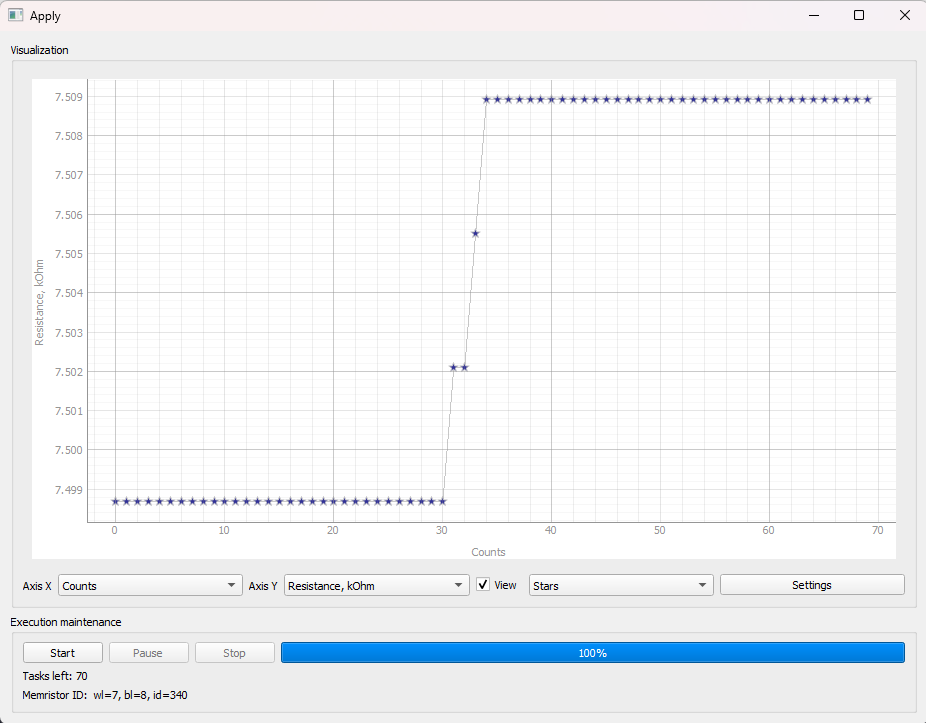
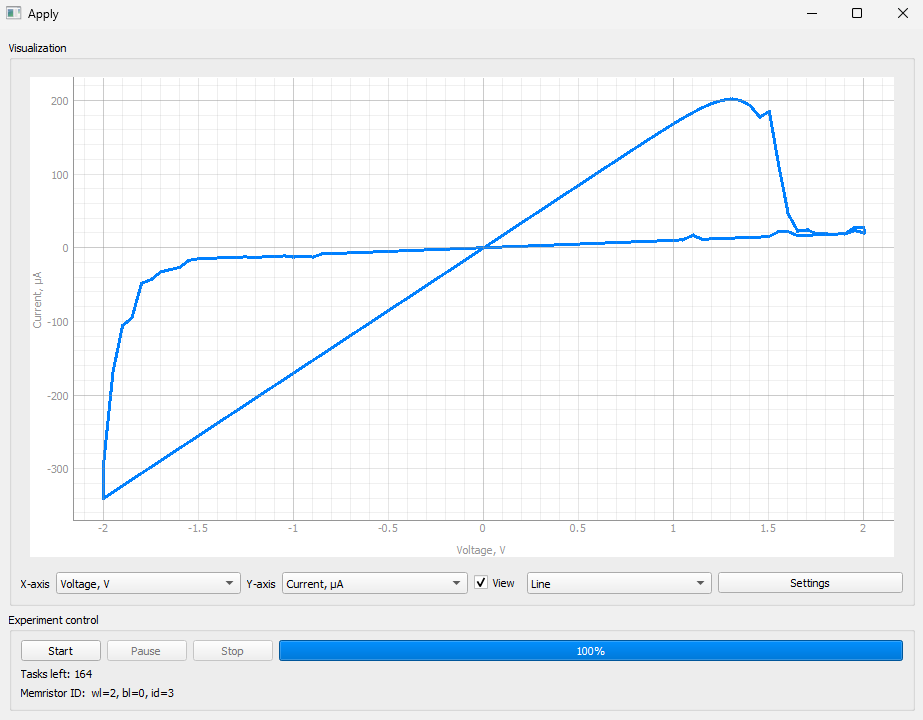
Docs: Manual revised

diff --git a/docs/README.md b/docs/README.md
@@ -35,7 +35,7 @@ After connecting, a new crossbar is created in memory, or an existing one is loa
 - **Update** the configutation from settings.ini.
 - Selection of **ADC bit depth**: 10 bits (Arduino ADC) or 14 bits (external ADC, oversampling).
 - Adjustment of **calibration coefficient**.
-- Adjustment of the software **current limiter (CC)** (works by predicting the current of the next pulse, based on last measured resistance).
+- Adjustment of the software **current compliance (CC)** (works by predicting the current of the next pulse, based on last measured resistance).
 
 ## Main window
 
@@ -50,7 +50,7 @@ Main window has a table which displays resistances of the memory cells. At the t
 - **Snapshot** shows a color map of the resistances.
 - [**Settings**](#settings).
 
-### Working with individual cells
+## Working with individual cells
 
 In addition to the general functionality, it is possible to work with each cell separately. To open the cell menu, double-click on it with the left mouse button.
 
@@ -62,20 +62,23 @@ The window that opens displays the basic information about the cell and contains
 - [**History**](#history-window) &mdash; get the journal of all experiments conducted on the cell.
 - [**New experiment**](#configuring-your-experiment) &mdash; create new experiment plan.
 
-#### History window
+### History window
 
 ![Cell History Window](assets/history.png)
 
 The window displays all experiments performed on the cell. By clicking on the experiment you can get it's brief overview (**Brief** tab on the right side of the window) or ***export measurement data*** to csv (**Full** tab on the right side of the window, then press **Export to csv**). The data is exported separately for each part of the experiment (ticket).
-In lower left part of the window, you can **load the experiment** to [repeat](#signal-editing-window) it or export the experiment plan as a single ticket.
+You can **Export** the experiment plan as a single ticket via **Export** button in the bottom left part of the window.
+You can **Load the experiment** to repeat it: [Experiment configuration](#configuring-your-experiment) window will open. The **Load** button is in the bottom left of the window.
 
-### Configuring your experiment
+## Configuring your experiment
 
 Experiment configuration window can be opened via [Cell info](#working-with-individual-cells) window or via [Tests](#tests) window.
 
 ![Experiment plan window](assets/new_exp.png)
 
-The window allows you to create a new experiment with a cell. It is made up of tickets &mdash; preset experiments, such as iv-curve, endurance, programming, etc. You can **add** multiple tickets from left side of the window to the experiment plan (**Add to plan** button), or you can create a new ticket (**New** button in the bottom left corner). The **Load** button on the right side of the window allows you to load a ticket that was previously applied to one of the cells. You can also directly **import** tickets from a *.json* file.
+The window allows you to create a new experiment with a cell. It is made up of tickets &mdash; preset experiments, such as iv-curve, endurance, programming, etc. You can **add** multiple tickets from left side of the window to the experiment plan (**Add to plan** button), or you can create a new ticket (**New** button in the bottom left corner). 
+The **Load** button on the right side of the window allows you to load a ticket that was previously applied to one of the cells. All parameters of that ticket will be loaded to the experiment.
+You can also directly **import** tickets from a *.json* file.
 You can enter the experiment **name** in the lower right part of the window.
 
 Preset tickets, available by default, are:
@@ -91,7 +94,7 @@ Preset tickets, available by default, are:
 By double-clicking the ticket on the right side of the window (or pressing **Edit** button), you can adjust the ticket parameters (voltage applied to the cell, number of cycles, etc.): the [Signal editing window](#signal-editing-window) opens.
 **Apply to the cell** button opens [Apply window](#applying-the-experiment) where you can start the experiment.
 
-#### Signal editing window
+### Signal editing window
 
 The signal window is opened via [Experiment plan](#configuring-your-experiment) window, it allows you to set the signal which is applied to the memristive cell.
 
@@ -107,32 +110,63 @@ For example, measuring 10 IV curves requires the following parameters:
 
 **Sending order:** Reset-Set; **Repeat**: 10 times
 
-##### Standart pulse sequence
+#### Standart pulse sequence
 
 Each measurement point consists of two parts &mdash; a voltage pulse with the adjustable amplitude for changing the resistive state of the cell, and a read pulse that always follows it. The amplitude of the reading pulse is fixed in the *settings.ini* file.
 During the experiment, the resistive state of the cell is controlled only via read pulses with constant amplitude.
 
-##### Terminate condition
+#### Terminate condition
 
 The terminate condition can be specified in the [Signal editing window](#signal-editing-window) and ***it is checked after every measurement point is acquired***. The **pass** condition turns the terminator off. For other condition values, you need to enter the resistance in the **Value** field (or **Min** and **Max** fields), and it will be compared to the acquired resistance.
 For example, the [Signal editing window figure](#signal-editing-window) shows standart terminate condition for programming resistive states via ***write-verify algorithm***: the **condition** is set to **><**. The experiment (for this ticket only) will automatically stop when the resistance of the memory cell will be from 5000 to 5500 Ohm.
 You can increase the amount of set-reset cycles to ensure that the memristive cell reaches the desired resistance range.
 You can add other tickets after the programming ticket (for example, a retention ticket) to create an autonomous experiment.
 
-### Applying the experiment
+## Applying the experiment
 
-###### Signal setup result:
+The **Apply** window can be opened from [Experiment configuration window](#configuring-your-experiment), via **Apply to the cell** button.
 
-To run the created experiment, click the Apply To Cell button to apply it to the selected cell.
-After that, the experiment window will open. It contains:
-- Graph rendering field. It is possible to change the data displayed along the axes and change the display method (points, line, asterisks). If you do not want to render the graph in real time, it is recommended that you turn off the Display setting below.
-- Experiment control panel. Buttons for starting, pausing and stopping the experiment, as well as a scale for the progress of the experiment.
-After the experiment is completed, a notification of completion will be shown, and in the event of a software [current_limiter](#Settings).
-###### BAX Cell Experiment Window:
 ![Experiment Window](assets/apply.png)
-</p>
 
-### Tests
+In the Apply window, there is a **Visualizaion** field where the data acquired during the experiment is displayed. You can adjust the figure via left-click (moves the plot) and right-click (opens plot settings menu).
+For example, you can set the **logarithmic scale** for the plot by opening plot menu (right-click) &rarr; Plot Options &rarr; Transforms &rarr; log Y.
+In the bottom part of the window, you can set the data which will be displayed during the experiment: **X-axis** can display *Counts* (number of pulses applied to the cell) or *Voltage*. **Y-axis** can display *resistance*, *current* or *ADC values*. You can scroll through the display options via scroll wheel on your mouse.
+The line style of the plot can be selected from *Line*, *Dots* or *Stars*.
+In the bottom of the window there is an **Experiment control** panel. You can **Start**, **Pause** or **Stop** the experiment from there.
+After the experiment is completed, a notification of completion will be shown. In the event of reaching the [software current compliance](#settings), warning will be shown.
+
+## Testsing multiple cells
+
+The **Testing window** is opened via **Tests** button on the [Main window](#main-window). In it, you can configure an experiment an apply it to multiple cells.
+
+![Testing Window](assets/testing_window.png)
+
+To conduct an experiment on multiple cells, proceed with the following steps:
+
+1. Set the **Path** to the folder where the test results will be saved (**Edit path** button). The results will be automatically exported in that folder during the experiment. Note: it's best to create a new experiment folder for each multicell test.
+2. In lower part of the window, in test **Test control** tab, press the **Experiment** button. The [History](#history-window) window will be opened. In it, you choose one of the previously applied experiments and **Load** it to the [Experiment plan](#configuring-your-experiment). When you are finished with configuring the experiment plan, press **Apply to all cells** button.
+3. On the **Testing** window, you can select the cells to which the experiment will be applied, or apply it to all cells in the crossbar array. To specify the cells, create a *.csv* file, following this example:
+![Cells testing file example](assets/cells_testing_example.png)
+The file contains two columns which specify volumn (wl) and row (bl) of the cells. Each row of the file should contain coordinates of cells for which the experiment is applied. To load the file, click **Cells** button on the **Testing** window.
+4. To run the rest, click **Run** button. The confirmation window will appear, which displays extimated time of the experiments (The estimation is not correct for some boards, it's work-in-progress). The test will start when you press **Yes** button. The visualization is not provided for this mode, but you can check the progress via the progressbar or by checking the contents of the folder with experiment results.
+
+#### Result analysis
+
+After the experiment is done, you can analyse the results: 
+
+1. Open **Result analysis** tab on the **Testing** window.
+2. The program calculates maximum (**Rmax**) and minimum (**Rmin**) resistance recorded during the experiment for each cell. Choose one or several conditions (logical *and* is applied when choosing multiple conditions) for the resistances or their ratio and press **Calculate**. 
+3. The program will calculate the amount of cells that satisfy the conditions.
+4. In the folder with experiment results, a new folder with analysis results will be created. In it, there are lists of good and bad cells (good cells satisfy the condition) and a result map.
+
+#### Visualization
+
+After the experiment is done, you can automatically generate plots of the results:
+
+1. Open **Visualization** tab on the **Testing** window.
+2. Choose which data will be displayed on X-axis and Y-axis.
+3. Press **Generate plots** button.
+4. In the experiment folder, a new folder with images will be created.
 
 
 <!-- 
